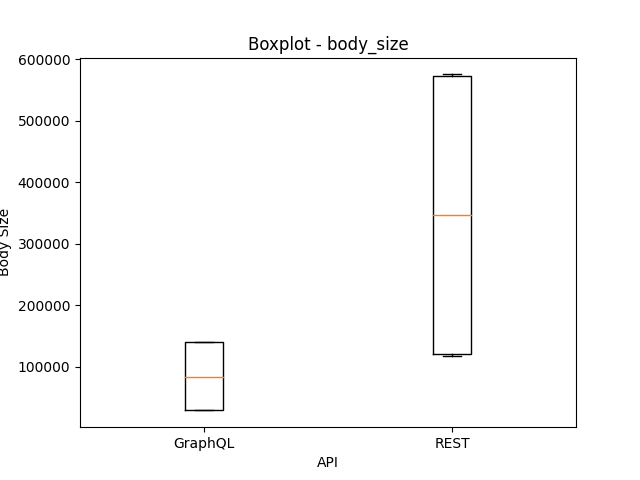
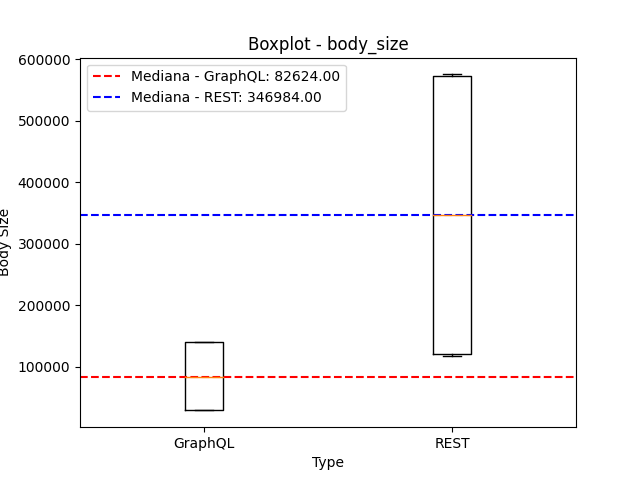
[PLOTS]: boxplot with mann whitney

diff --git a/plots.py b/plots.py
@@ -1,6 +1,6 @@
 import pandas as pd
 import matplotlib.pyplot as plt
-from scipy.stats import spearmanr
+from scipy.stats import mannwhitneyu
 
 # Ler o arquivo CSV
 data = pd.read_csv('out/results.csv')
@@ -8,9 +8,6 @@ data = pd.read_csv('out/results.csv')
 # Filtrar os dados para cada tipo
 data_graphql = data[data['api'] == 'graphql']
 data_rest = data[data['api'] == 'rest']
-
-# Calcular o coeficiente de correlação de Spearman
-correlation, _ = spearmanr(data_graphql['elapsed_time'], data_rest['elapsed_time'])
 
 # Criar uma lista de dados para o boxplot
 data_list = [data_graphql['elapsed_time'], data_rest['elapsed_time']]
@@ -29,13 +26,22 @@ median_rest = data_rest['elapsed_time'].median()
 ax.axhline(y=median_graphql, color='red', linestyle='--', label=f'Mediana - GraphQL: {median_graphql:.2f}')
 ax.axhline(y=median_rest, color='blue', linestyle='--', label=f'Mediana - REST: {median_rest:.2f}')
 
+# Realizar o teste de Mann-Whitney
+statistic, p_value = mannwhitneyu(data_graphql['elapsed_time'], data_rest['elapsed_time'])
+alpha = 0.05
+
+# Adicionar o resultado do teste de Mann-Whitney no gráfico
+if p_value < alpha:
+    ax.text(0.5, 0.05, f'Teste de Mann-Whitney: p-value = {p_value:.4f} (diferentes)', transform=ax.transAxes,
+            fontsize=10, verticalalignment='bottom', horizontalalignment='center', bbox=dict(facecolor='red', alpha=0.5))
+else:
+    ax.text(0.5, 0.05, f'Teste de Mann-Whitney: p-value = {p_value:.4f} (sem diferença)', transform=ax.transAxes,
+            fontsize=10, verticalalignment='bottom', horizontalalignment='center', bbox=dict(facecolor='green', alpha=0.5))
+
 # Adicionar título e rótulos aos eixos
 ax.set_title('Boxplot - elapsed_time')
 ax.set_xlabel('Type')
-ax.set_ylabel('Elapsed Time')
-
-# Mostrar o coeficiente de correlação de Spearman
-ax.text(0.5, 0.05, f'Coeficiente de Spearman: {correlation:.2f}', transform=ax.transAxes, ha='center')
+ax.set_ylabel('Body Size')
 
 # Mostrar a legenda
 ax.legend()
